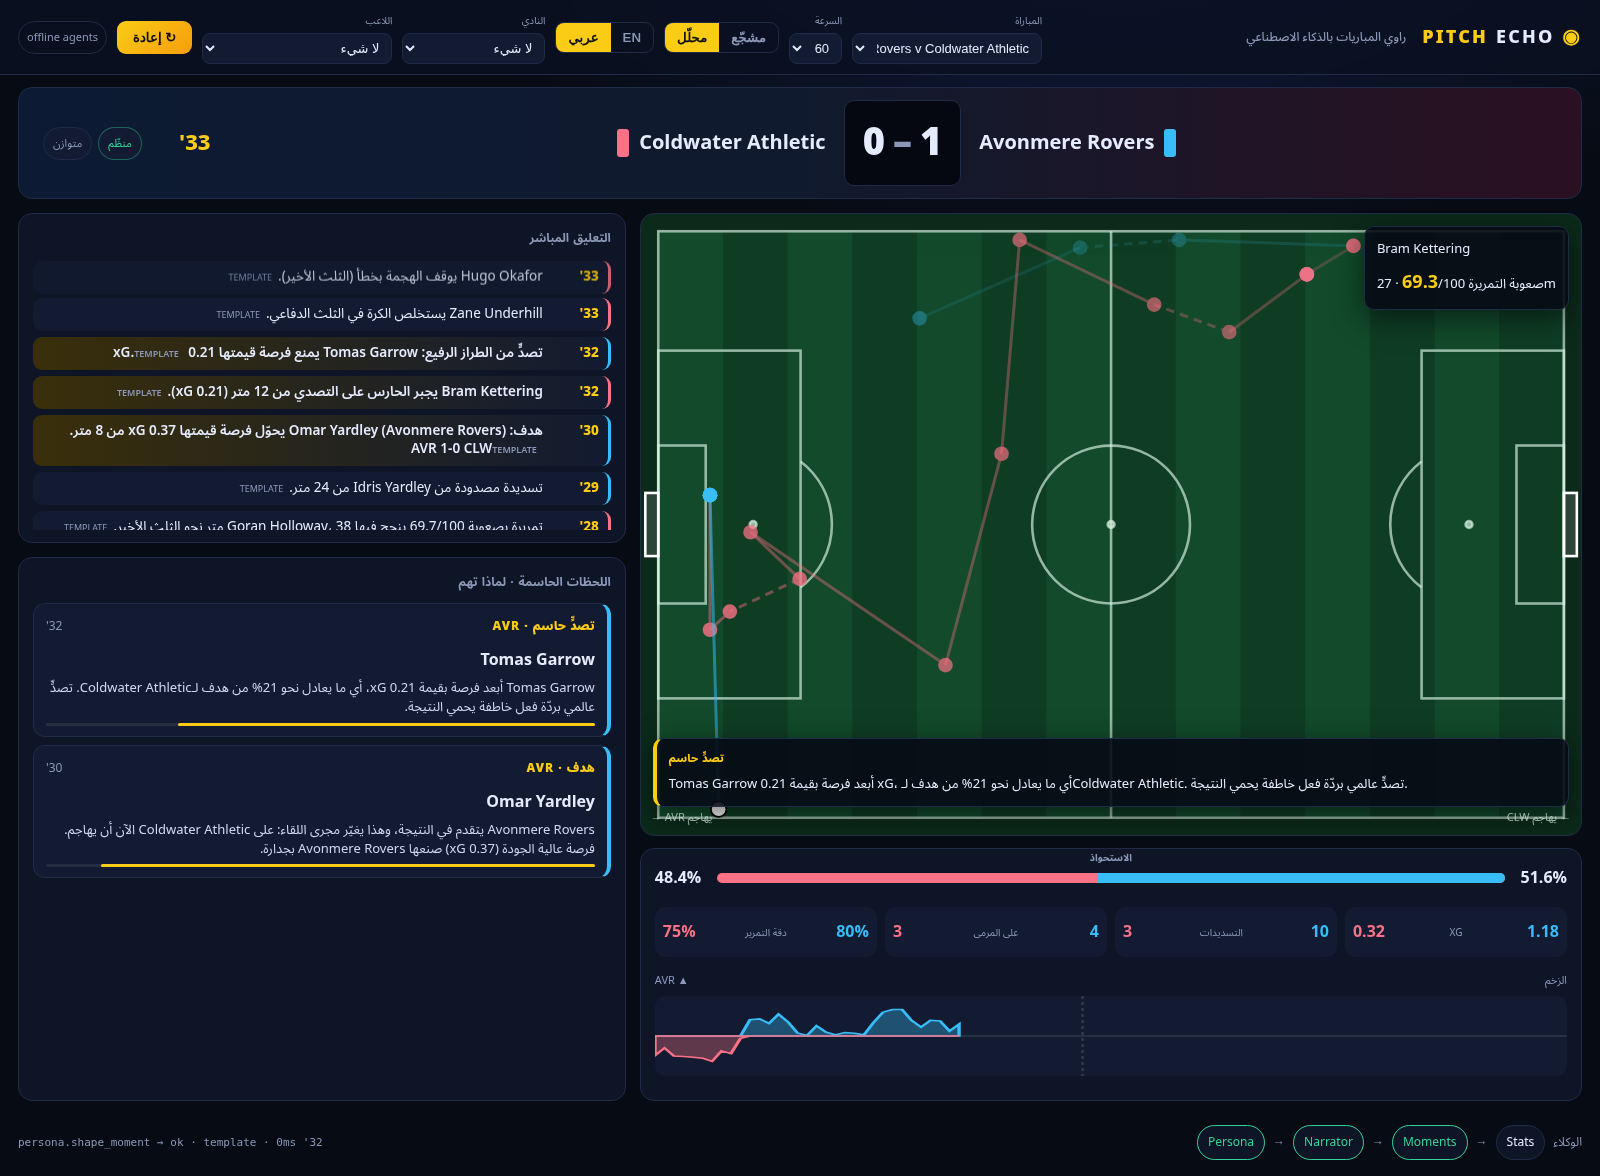
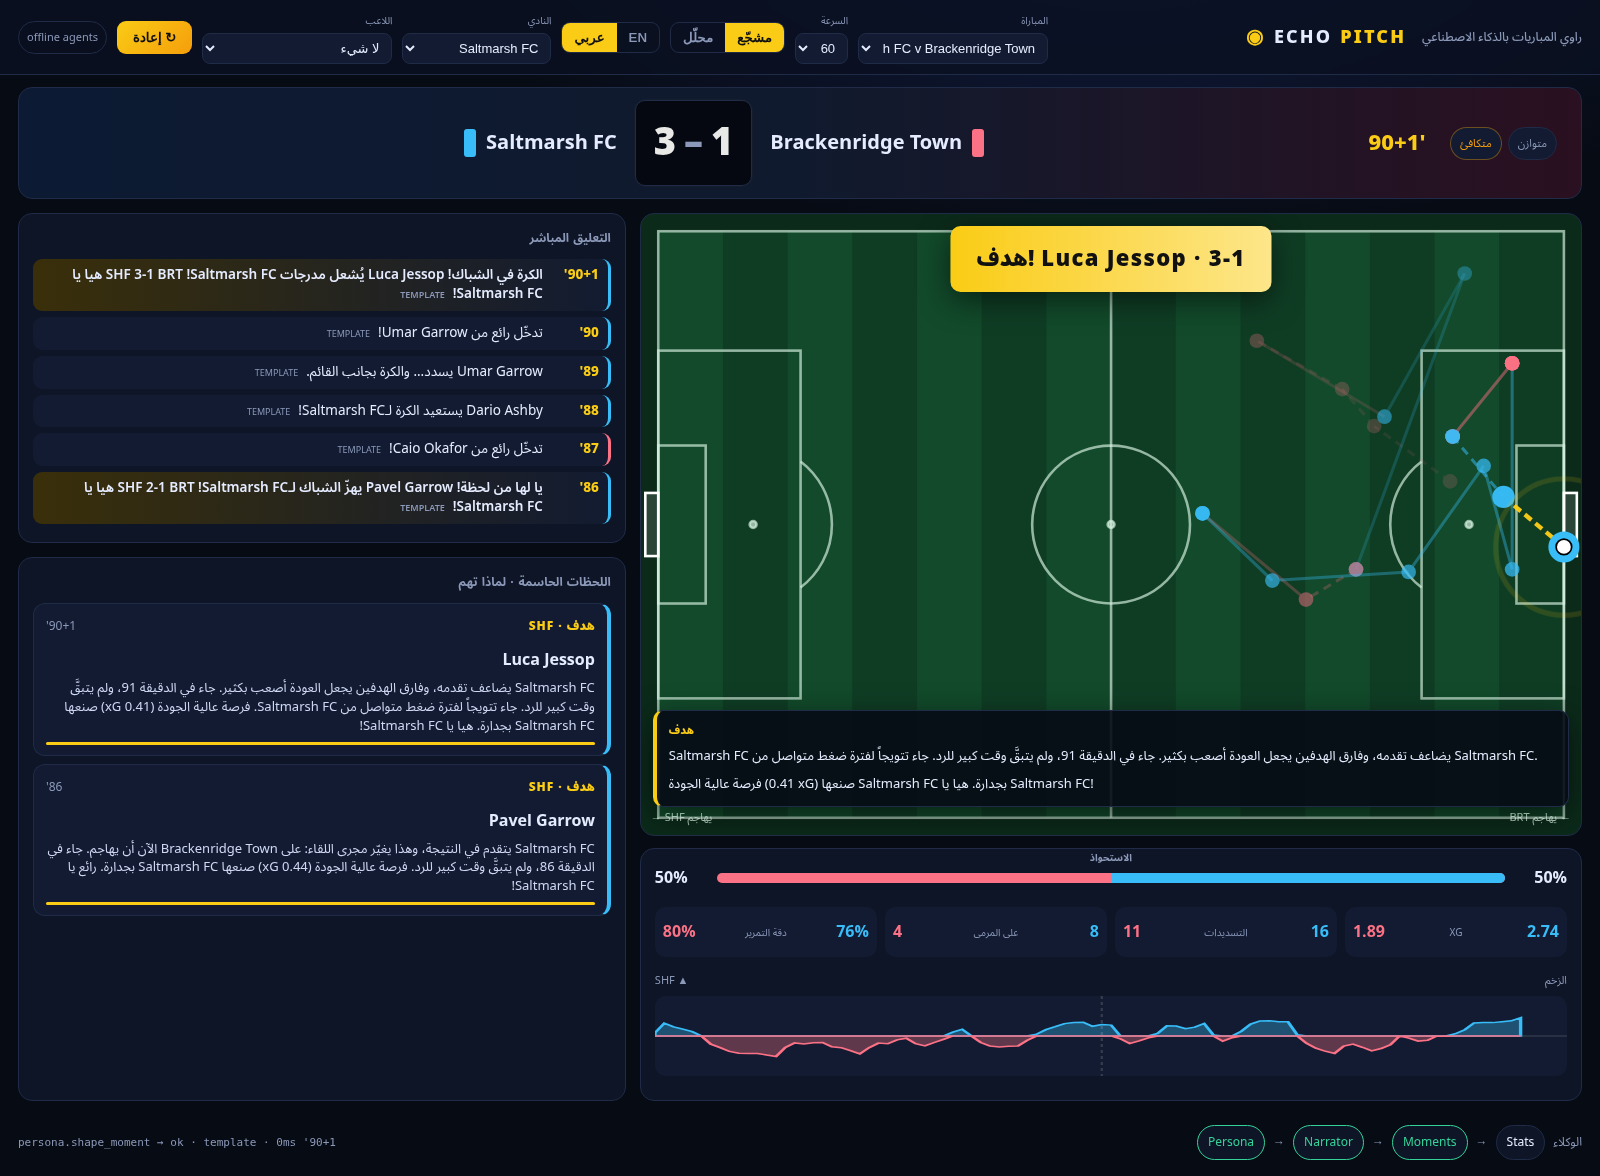
Arabic commentator style guide, smooth template-to-LLM crossfade, RTL bidi + LTR scoreboard; refresh screenshots

diff --git a/web/app.js b/web/app.js
@@ -79,7 +79,7 @@ function connect(fromNow) {
   const on = (name, fn) => es.addEventListener(name, (ev) => fn(JSON.parse(ev.data)));
   on("meta", (d) => { const b = $("modeBadge"); b.textContent = d.llm_mode === "foundry" ? "Azure AI Foundry" : "offline agents"; b.classList.toggle("foundry", d.llm_mode === "foundry"); });
   on("match_event", drawEvent); on("commentary", addLine); on("moment_card", addCard);
-  on("commentary_update", (u) => { const li = document.querySelector(`#ticker li[data-id="${u.id}"] .txt`); if (li) { li.textContent = u.text; li.nextSibling.textContent = u.source; } }); on("overlay", showOverlay);
+  on("commentary_update", (u) => { const li = document.querySelector(`#ticker li[data-id="${u.id}"] .txt`); if (li) { li.classList.add("swap"); setTimeout(() => { li.innerHTML = bidi(u.text); li.nextSibling.textContent = u.source; li.classList.remove("swap"); li.closest("li").classList.add("upgraded"); }, 220); } }); on("overlay", showOverlay);
   on("stats", updateStats); on("agent_trace", trace); on("recap", showRecap);
   on("end", () => es.close());
 }
@@ -110,7 +110,7 @@ function clockOf(e) { const m = e.minute; if (e.period === 1 && m >= 45) return 
 function addLine(d) {
   const li = document.createElement("li");
   li.className = `${d.team || ""} ${d.important ? "big" : ""}`; li.dataset.id = d.id || "";
-  li.innerHTML = `<span class="c">${d.clock}</span><span><span class="txt">${esc(d.text)}</span><span class="src">${d.source}</span></span>`;
+  li.innerHTML = `<span class="c">${d.clock}</span><span><span class="txt">${bidi(d.text)}</span><span class="src">${d.source}</span></span>`;
   $("ticker").prepend(li);
   while ($("ticker").children.length > 40) $("ticker").lastChild.remove();
 }
@@ -123,6 +123,7 @@ function addCard(c) {
     <div><b>${esc(c.player || "")}</b></div><p>${esc(c.why)}</p><div class="imp"><i style="width:${Math.round((c.importance || 0) * 100)}%"></i></div>`;
   if (!old) $("cards").prepend(div);
 }
+function bidi(s) { return esc(s).replace(/[A-Za-z0-9][A-Za-z0-9 .'\-]*[A-Za-z0-9]|[A-Za-z]/g, (m) => `<bdi>${m}</bdi>`); }
 function esc(s) { return String(s).replace(/[&<>"]/g, (c) => ({"&": "&amp;", "<": "&lt;", ">": "&gt;", '"': "&quot;"}[c])); }
 
 // ---------------------------------------------------------------- overlays (timed, machine-readable cards)

diff --git a/web/style.css b/web/style.css
@@ -84,3 +84,7 @@ button.primary{background:linear-gradient(135deg,#facc15,#f59e0b);color:#111;bor
 .modal p{line-height:1.6;font-size:15px}#recapMoments{display:flex;flex-wrap:wrap;gap:6px;margin:10px 0 16px}
 #recapMoments span{font-size:11px;padding:4px 8px;border-radius:999px;background:var(--panel2);border:1px solid var(--line)}
 @media (max-width:1000px){.grid{grid-template-columns:1fr}.scoreboard{grid-template-columns:1fr auto 1fr}.clock,.chips{grid-column:span 3;justify-self:center}}
+#ticker li .txt{transition:opacity .22s ease,filter .22s ease}#ticker li .txt.swap{opacity:0;filter:blur(2px)}
+#ticker li.upgraded .src{color:var(--acc)}
+.scoreboard .team,.scoreboard .score{direction:ltr;unicode-bidi:isolate}[dir=rtl] .scoreboard{direction:ltr}
+#ticker li .src{display:inline-block;margin-inline-start:8px}

diff --git a/agents/specialists.py b/agents/specialists.py
@@ -20,6 +20,13 @@ def _audience(ctx: dict) -> str:
             f"Favourite player: {ctx.get('player_name') or 'none'}.")
 
 
+AR_STYLE = (" Write the answer in Arabic, in the voice of a live Arab TV football commentator "
+            "(think beIN Sports): fluent, modern standard Arabic that sounds spoken, short punchy sentences, "
+            "natural football vocabulary (e.g. هدف، تسديدة، تصدٍّ، هجمة مرتدة، الشباك، القائم). "
+            "Do not translate English idioms word for word. Keep player and club names in Latin script, "
+            "use Western digits for numbers and scores, and never mix English words into the Arabic text.")
+
+
 class Base:
     name = "base"
 
@@ -28,8 +35,7 @@ class Base:
 
     async def _llm(self, prompt: str, lang: str = "en", agent: Any | None = None) -> str:
         from .foundry import run_text
-        suffix = (" Write the answer in Modern Standard Arabic (names stay in Latin script)." if lang == "ar"
-                  else " Write the answer in English.")
+        suffix = (AR_STYLE if lang == "ar" else " Write the answer in English.")
         text = await run_text(agent or self.llm, prompt + suffix)
         check_language(text, lang)
         return text
